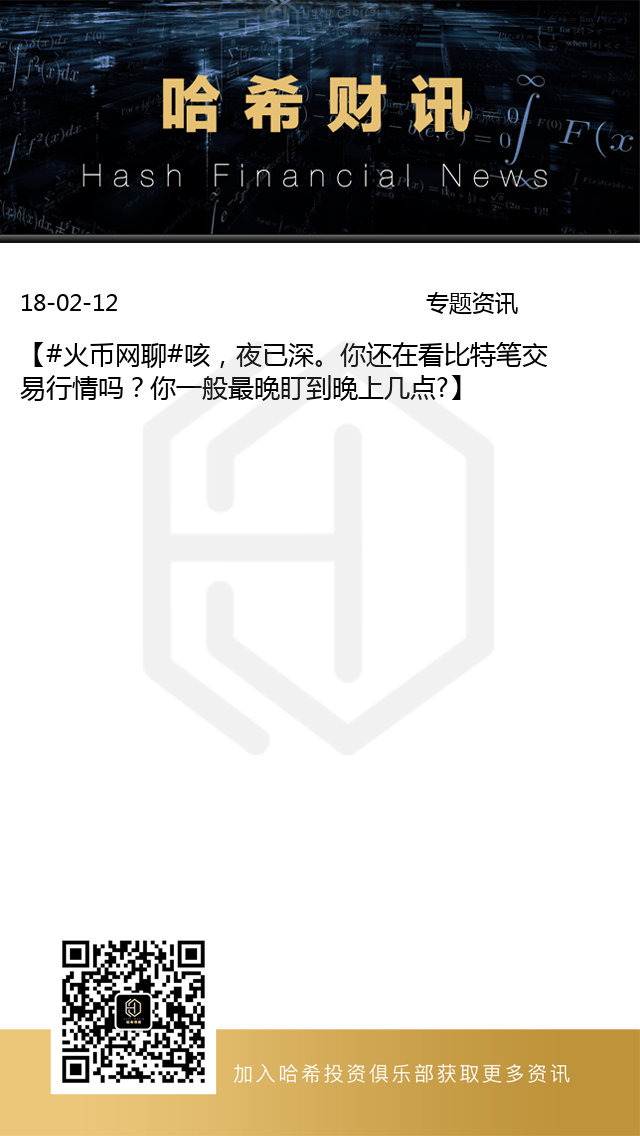
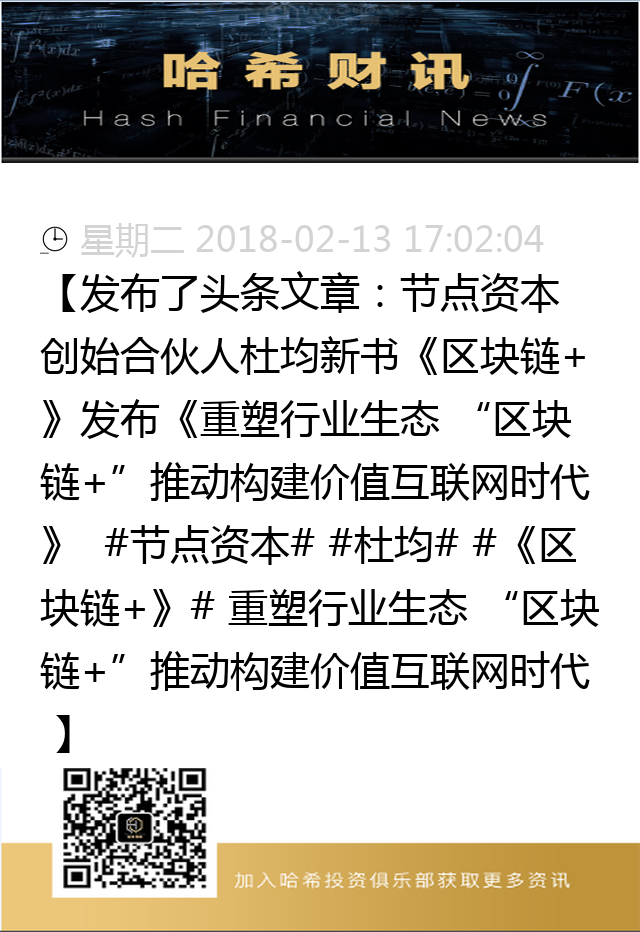
ttttt

diff --git a/block_chain/app/util.py b/block_chain/app/util.py
@@ -11,6 +11,16 @@ from email.mime.application import MIMEApplication
 import textwrap
 
 
+week_map = {"一": 0, "二": 1, "三": 2, "四": 3, "五": 4, "六": 5, "日": 6}
+w_map = {0: "星期一", 1: "星期二", 2: "星期三", 3: "星期四", 4: "星期五", 5: "星期六", 6: "星期日"}
+img_dir = "/data/web/wwwroot/image/"
+back_img = Image.open("../static/img/background.png").convert("RGBA")
+logo_img = Image.open("../static/img/logo.png").convert("RGBA")
+clock_img = Image.open("../static/img/timg.jpg").convert("RGBA")
+date_font = ImageFont.truetype(os.path.join("fonts", "msyh.ttf"), 35)
+word_font = ImageFont.truetype(os.path.join("fonts", "msyh.ttf"), 40)
+
+
 def modify_date(now, before_time):
     """格式化时间"""
     if "小时" in before_time:
@@ -25,6 +35,30 @@ def modify_date(now, before_time):
         return before_time
 
 
+def get_files(time_stmp):
+    """获取文件"""
+    tmp = str(time_stmp)
+    file_list = []
+    for root, dirs, files in os.walk(img_dir):
+        for file in files:
+            if tmp in file:
+                file_list.append(file)
+    return file_list
+
+
+def del_files(time_stmp):
+    """删除大于1天的文件"""
+    for root, dirs, files in os.walk(img_dir):
+        if ".png" in files:
+            g = re.search(r'\d{10,}', files)
+            if len(g) == 1:
+                old_stmp = g(0)
+                diff = time_stmp - int(old_stmp)
+                if diff > 60*60*24:
+                    os.remove(os.path.join(dirs, files))
+
+
+
 def filter_html_tag(str_tag):
     """过滤html代码"""
     line = str_tag.rstrip()
@@ -33,6 +67,29 @@ def filter_html_tag(str_tag):
     line = pattern.sub('', line)
     # line = re.sub('[\s+\.\!\/_,$%^*(+\"\')]+|[+——()?【】“”！，。？、~@#￥%……&*（）\"]+', "", line)
     return line
+
+
+def filter_cn_blank(word):
+    return re.match("[[\d\s+\.\!\/_,$%^*(+\"\')]+|[+——()?【】“”！，。？、~@#￥%……&*（）\"：《》#“”a-z\u4e00-\u9fa5]", word)
+
+
+def join_word(content, length):
+    new_word = ''
+    num = 0
+    for i in content:
+        if not filter_cn_blank(i):
+            continue
+
+        if i >= u'\u4e00' and i <= u'\u9fa5':
+            num += 2
+        else:
+            num += 1
+        if num >= length:
+            num = 0
+            new_word = new_word + "\n" + i
+        else:
+            new_word = new_word + i
+    return new_word
 
 
 def compare_time(publish_time, cmp_time):
@@ -109,7 +166,7 @@ def cut_out_word(word, length):
 def draw_list(info, time_stmp):
     """画清单图片"""
     back_img = Image.open("../static/img/background.png").convert("RGBA")
-    new_img = Image.new("RGBA", back_img.size, (0, 0, 0, 0))
+    new_img = Image.new("RGBA", (600, 1136), (0, 0, 0, 0))
     date_font = ImageFont.truetype(os.path.join("/usr/share/fonts", "msyh.ttf"), 23)
     word_font = ImageFont.truetype(os.path.join("/usr/share/fonts", "msyh.ttf"), 24)
     d = ImageDraw.Draw(new_img)
@@ -136,8 +193,8 @@ def draw_list(info, time_stmp):
         h -= 25
     out = Image.alpha_composite(back_img, new_img)
     tt = Image.alpha_composite(out, Image.open("../static/img/logo.png").convert("RGBA"))
-    # tt.show()
-    tt.save("/data/web/wwwroot/image/list_%s.png" % time_stmp)
+    tt.show()
+    # tt.save("/data/web/wwwroot/image/list_%s.png" % time_stmp)
 
 
 def draw_detail(detail, num, time_stmp):
@@ -146,7 +203,7 @@ def draw_detail(detail, num, time_stmp):
     new_img = Image.new("RGBA", back_img.size, (0, 0, 0, 0))
     date_font = ImageFont.truetype(os.path.join("/usr/share/fonts", "msyh.ttf"), 23)
     title_font = ImageFont.truetype(os.path.join("/usr/share/fonts", "msyh.ttf"), 26)
-    word_font = ImageFont.truetype(os.path.join("/usr/share/fonts", "simsun.ttf"), 27)
+    word_font = ImageFont.truetype(os.path.join("/usr/share/fonts", "simsun.ttc"), 27)
     d = ImageDraw.Draw(new_img)
     the_now = datetime.datetime.strftime(datetime.datetime.now(), "%y-%m-%d")
     d.text((new_img.size[0] - 620, new_img.size[1] - 850),
@@ -172,52 +229,74 @@ def draw_detail(detail, num, time_stmp):
 
     out = Image.alpha_composite(back_img, new_img)
     tt = Image.alpha_composite(out, Image.open("../static/img/logo.png").convert("RGBA"))
-    # tt.show()
-    tt.save("/data/web/wwwroot/image/%s_%s.png" % (num, time_stmp))
+    tt.show()
+    # tt.save("/data/web/wwwroot/image/%s_%s.png" % (num, time_stmp))
 
 
-def send_email(file_list):
-    """发送邮件"""
-    sender = 'liudiyuhan1@163.com'
-    password = '851102ldyh*'
-    receivers = ';'.join(["zhangqiannan@dangdang.com", '408621756@qq.com'])
-    msg = MIMEMultipart()
-    msg['Subject'] = '图片'
-    msg['From'] = sender
-    msg['To'] = receivers
+def draw_detail_2(title, content):
+    box = (40, 243, 610, 940)
+    new_img = Image.new("RGBA", (560, 1136), "white")
+    d = ImageDraw.Draw(new_img)
 
-    for file in file_list:
-        jpgpart = MIMEApplication(open("../result/%s" % file, 'rb').read())
-        jpgpart.add_header('Content-Disposition', 'attachment', filename=file)
-        msg.attach(jpgpart)
+    now = datetime.datetime.now()
+    week = now.weekday()
+    the_now = datetime.datetime.strftime(now, "%Y-%m-%d %H:%M:%S")
+    d.text((20, 50), "  " + w_map[week] + " " + the_now, font=date_font, fill="#D3D3D3")
 
-    client = smtplib.SMTP()
-    client.connect('smtp.163.com')
-    client.starttls()
-    client.login(sender, password)
-    client.sendmail(sender, receivers, msg.as_string())
-    client.quit()
+    content = join_word("【" + title + "】" + content, 25)
+    d.multiline_text((0, 130), content, font=word_font, fill="#000000", spacing=20)
 
-img_dir = "/data/web/wwwroot/image/"
+    region_clock = clock_img
+    region_clock = region_clock.resize((30, 30), Image.ANTIALIAS)
+    new_img.paste(region_clock, (0, 60))
+
+    region = new_img
+    region = region.resize((box[2] - box[0], box[3] - box[1]))
+    back_img.paste(region, box)
+    back_img.show()
+    back_img.save('./out.png')
 
 
-def get_files(time_stmp):
-    """获取文件"""
-    tmp = str(time_stmp)
-    file_list = []
-    for root, dirs, files in os.walk(img_dir):
-        for file in files:
-            if tmp in file:
-                file_list.append(file)
-    return file_list
+def get_head_regin():
+    head_img = Image.open("../static/img/head.png").convert("RGBA")
+    h = 164
+    h_r = head_img.resize((640, h), Image.ANTIALIAS)
+    return h_r, h
 
-def del_files(time_stmp):
-    """删除大于1天的文件"""
-    for root, dirs, files in os.walk(img_dir):
-        if ".png" in files:
-            g = re.search(r'\d{10,}', files)
-            if len(g) == 1:
-                old_stmp = g(0)
-                diff = time_stmp - int(old_stmp)
-                if diff > 60*60*24:
-                    os.remove(os.path.join(dirs, files))
+
+def get_content_regin(content):
+    content_img = Image.new("RGBA", (560, 10000), "white")
+    d = ImageDraw.Draw(content_img)
+
+    region_clock = Image.open("../static/img/timg.jpg").convert("RGBA")
+    region_clock = region_clock.resize((30, 30), Image.ANTIALIAS)
+    content_img.paste(region_clock, (0, 60))
+
+    now = datetime.datetime.now()
+    week = now.weekday()
+    the_now = datetime.datetime.strftime(now, "%Y-%m-%d %H:%M:%S")
+    d.text((20, 50), "  " + w_map[week] + " " + the_now, font=date_font, fill="#D3D3D3")
+
+    d.multiline_text((0, 100), content, font=word_font, fill="#000000", spacing=20)
+    w, h = d.multiline_textsize(content, spacing=20, font=word_font)
+    content_img.resize((w, h), Image.ANTIALIAS)
+    return content_img, h
+
+
+def get_foot_regin():
+    foot_img = Image.open("../static/img/foot.png").convert("RGBA")
+    h = 164
+    f_r = foot_img.resize((640, h), Image.ANTIALIAS)
+    return f_r, h
+
+
+def draw_detail_3(content, file_name):
+    h_g, h_h = get_head_regin()
+    c_g, c_h = get_content_regin(content)
+    f_g, f_h = get_foot_regin()
+    new_img = Image.new("RGBA", (640, h_h + c_h + 100 + f_h), "white")
+    new_img.paste(h_g, (0, 0))
+    new_img.paste(c_g, (40, h_h))
+    new_img.paste(f_g, (0, h_h + c_h + 100))
+    new_img.show()
+    new_img.save(file_name)

diff --git a/block_chain/app/test.py b/block_chain/app/test.py
@@ -1,15 +1,25 @@
+# -*- coding: utf-8 -*-
 import time
+from PIL import Image, ImageFont, ImageDraw
 import textwrap
-from util import draw_detail
-from util import draw_list
+import datetime
+import re
+import os
+from util import draw_detail_3
+from util import join_word
 from util import select_from_db
-from util import cut_out_word
 
 if __name__ == "__main__":
-    sql = "select date, title, summary from block_chain where id in (%s)" % ('1, 2, 100, 1111, 2111')
-    result = [[i[0], i[1].strip(), i[2].strip()]for i in select_from_db(sql)]
-    time_stmp = int(time.time())
-    draw_list(result, time_stmp)
+    sql = "select date, title, summary from block_chain where id in (%s)" % ('7001, 7002, 1, 1000, 486')
+    result = select_from_db(sql)
+
+    content = join_word("【" + result[0][1] + "】" + result[0][2], 25)
+    draw_detail_3(content, "../result/1.png")
+
+    title_str = ""
     for i in range(0, len(result)):
-        draw_detail(result[i], i, time_stmp)
+        temp = join_word("%s. " % (i + 1) + result[i][1], 25)
+        title_str = title_str + temp + "\n"
+    draw_detail_3(title_str, "../result/list.png")
+
 
